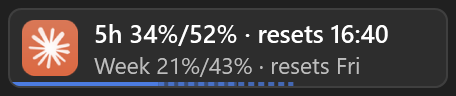
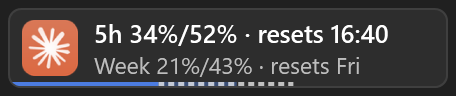
fix(tiles): draw the forecast in the text color, apart from the blue pace bar

Changed region(s): [[0.3377, 0.8438, 0.6447, 0.9062]]

diff --git a/src/TaskbarTiles.Host/UI/TileView.xaml b/src/TaskbarTiles.Host/UI/TileView.xaml
@@ -64,7 +64,8 @@
                         <ColumnDefinition x:Name="ForecastSpan" Width="0*"/>
                         <ColumnDefinition x:Name="ForecastAfter" Width="1*"/>
                     </Grid.ColumnDefinitions>
-                    <Border x:Name="ForecastFill" Grid.Column="1"/>
+                    <!-- In the text color, not blue: it must not read as the pace bar under it. -->
+                    <Border x:Name="ForecastFill" Grid.Column="1" Background="{DynamicResource TileForeground}" Opacity="0.7"/>
                 </Grid>
                 <Grid x:Name="ProgressTrack" Height="2" VerticalAlignment="Bottom" Visibility="Collapsed">
                     <Grid.ColumnDefinitions>

diff --git a/src/TaskbarTiles.Host/UI/TileView.xaml.cs b/src/TaskbarTiles.Host/UI/TileView.xaml.cs
@@ -16,18 +16,17 @@ public partial class TileView : UserControl
     static readonly SolidColorBrush PaceBrush = Frozen(Color.FromRgb(0x4C, 0x7C, 0xE0));
     static readonly SolidColorBrush AheadBrush = Frozen(Color.FromRgb(0xF2, 0xA3, 0x3A));
 
-    static readonly Brush PaceDashes = Dashes(PaceBrush.Color);
-    static readonly Brush AheadDashes = Dashes(AheadBrush.Color);
+    // The forecast's opacity mask: 3 px on, 2 px off.
+    static readonly Brush Dashes = MakeDashes();
 
-    // 3 px on, 2 px off, a little dimmer than the bar it continues.
-    static Brush Dashes(Color color)
+    static Brush MakeDashes()
     {
-        var dash = new GeometryDrawing(Frozen(color), null, new RectangleGeometry(new Rect(0, 0, 3, 2)));
+        var dash = new GeometryDrawing(Brushes.Black, null, new RectangleGeometry(new Rect(0, 0, 3, 2)));
         var gap = new GeometryDrawing(Brushes.Transparent, null, new RectangleGeometry(new Rect(3, 0, 2, 2)));
         var brush = new DrawingBrush(new DrawingGroup { Children = { dash, gap } })
         {
             TileMode = TileMode.Tile, Viewport = new Rect(0, 0, 5, 2), ViewportUnits = BrushMappingMode.Absolute,
-            Stretch = Stretch.None, Opacity = 0.75,
+            Stretch = Stretch.None,
         };
         brush.Freeze();
         return brush;
@@ -195,7 +194,7 @@ public partial class TileView : UserControl
                 ForecastBefore.Width = new GridLength(done, GridUnitType.Star);
                 ForecastSpan.Width = new GridLength(end - done, GridUnitType.Star);
                 ForecastAfter.Width = new GridLength(1 - end, GridUnitType.Star);
-                ForecastFill.Background = ReferenceEquals(ProgressFill.Background, AheadBrush) ? AheadDashes : PaceDashes;
+                ForecastFill.OpacityMask = Dashes;
                 ForecastTrack.Visibility = Visibility.Visible;
             }
             else

diff --git a/docs/configuration.md b/docs/configuration.md
@@ -108,7 +108,7 @@ The bundled `battery` kind shows the lowest battery of your wireless devices on 
 
 ### Claude usage
 
-The bundled `claude-usage` kind shows your Claude plan's limits: the 5-hour window on the first line ("5h 42%/60% · resets 18:30"), the week below it ("Week 18%/86%"). The second number is what an even pace would have used by now: the 5-hour window evenly from its start to its reset, the week one seventh per day begun. The line along the bottom is the 5-hour use, over a dim line at the even pace; past it, the part beyond the pace turns orange. A dashed line carries on from its end to where the 5-hour use will be at the reset if you go on at the rate so far (not in the first tenth of a window, where one burst would throw it far off). It shows the Claude logo (`claude.png` in its folder), with an orange dot at 80% and a red one at 95%. Click it for both windows with their reset times, each with an **At this rate** row: the use at the reset, or when the limit runs out if that comes first; plus any per-model weekly limit; **Refresh now** reads them again at once, and **Open usage page** opens claude.ai's usage settings.
+The bundled `claude-usage` kind shows your Claude plan's limits: the 5-hour window on the first line ("5h 42%/60% · resets 18:30"), the week below it ("Week 18%/86%"). The second number is what an even pace would have used by now: the 5-hour window evenly from its start to its reset, the week one seventh per day begun. The line along the bottom is the 5-hour use, over a dim line at the even pace; past it, the part beyond the pace turns orange. A dashed white line (dark on a light taskbar) carries on from its end to where the 5-hour use will be at the reset if you go on at the rate so far (not in the first tenth of a window, where one burst would throw it far off). It shows the Claude logo (`claude.png` in its folder), with an orange dot at 80% and a red one at 95%. Click it for both windows with their reset times, each with an **At this rate** row: the use at the reset, or when the limit runs out if that comes first; plus any per-model weekly limit; **Refresh now** reads them again at once, and **Open usage page** opens claude.ai's usage settings.
 
 - It reads every 5 minutes (setting `"refresh"`, `1m` to `1h`, also in **Settings…**) and on **Refresh now**, from the usage endpoint Claude Code's `/usage` uses, signed in with Claude Code's login in `%USERPROFILE%\.claude\.credentials.json` (or `%CLAUDE_CONFIG_DIR%`; setting `"credentials"` overrides the path). The token goes only to `api.anthropic.com` and is never stored elsewhere. The endpoint is not documented, so a Claude update may change it.
 - Claude Code renews the login while you use it. If it has expired, the tile says so until Claude Code runs again; numbers under an hour old keep showing in the meantime, with the reason in the tooltip.

diff --git a/docs/script-connectors.md b/docs/script-connectors.md
@@ -89,7 +89,7 @@ Print one JSON object. Every field is optional; field names are camelCase.
 | `buttons` | array | Inline icon buttons: `{ "id": "rerun", "glyph": "refresh", "tooltip": "Run again", "enabled": true }`. `id` is required and runs the `action:<id>` hook; `glyph` defaults to `info`, `enabled` to `true`. |
 | `progress` | number | 0 to 1; a thin bar along the bottom. Must be a finite number: values such as `1e999` are dropped with a warning. |
 | `progressMark` | number | 0 to 1; where the bar should be by now, drawn as a dim bar under it. While `progress` is past it, the bar is blue up to the mark and orange beyond. Only shown with `progress`. |
-| `progressForecast` | number | 0 to 1; where the bar will be at the end at the current rate, drawn dashed from the bar's end to this point. Only shown with `progress`, and only past it. |
+| `progressForecast` | number | 0 to 1; where the bar will be at the end at the current rate, drawn as dashes in the text color from the bar's end to this point. Only shown with `progress`, and only past it. |
 | `sparkline` | array of numbers | A line chart behind the title and subtitle, from its lowest value to its highest (needs at least two values). Non-finite values are dropped with a warning. |
 | `urgent` | boolean | Pulsing red outline. |
 
